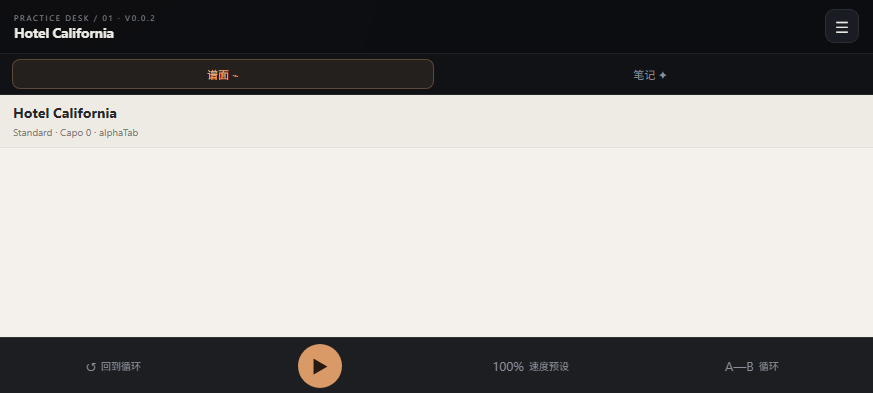
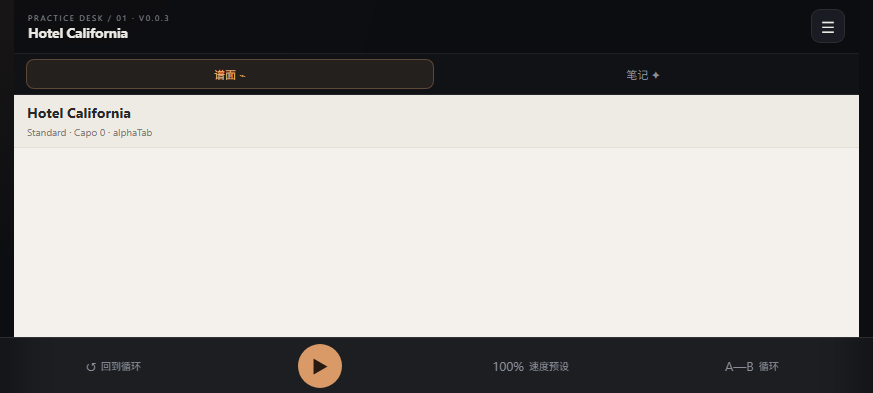
fix: tune mobile safe areas and touch targets

diff --git a/src/style.css b/src/style.css
@@ -24,7 +24,7 @@
 html, body, #app { min-height: 100%; }
 body { margin: 0; min-width: 320px; min-height: 100vh; background: var(--bg); }
 button, input, textarea { font: inherit; }
-button { cursor: pointer; }
+button { cursor: pointer; touch-action: manipulation; }
 .app-shell { min-height: 100vh; display: flex; flex-direction: column; overflow: hidden; background: radial-gradient(circle at 10% -10%, rgba(217,154,103,.08), transparent 30%), var(--bg); }
 .app-shell.is-resizing { cursor: col-resize; user-select: none; }
 .top-bar { height: 68px; display: flex; align-items: center; justify-content: space-between; padding: 0 24px; border-bottom: 1px solid var(--line); background: rgba(13,14,17,.88); backdrop-filter: blur(18px); }
@@ -59,7 +59,7 @@ button { cursor: pointer; }
 @media (max-width:1100px) and (min-width:761px) { .library-strip{gap:10px;padding-inline:16px}.library-title{min-width:150px}.search-box{width:220px}.top-bar{padding-inline:16px} }
 @media (max-width:760px) {
   body { min-width:320px; overflow:hidden; }
-  .app-shell { min-height:100dvh; padding-bottom:76px; }
+  .app-shell { min-height:100dvh; padding:0 max(14px, env(safe-area-inset-right)) 76px max(14px, env(safe-area-inset-left)); }
   .top-bar { position:relative; height:62px; padding:0 14px; }.top-title { max-width:58%; }.top-title h1 { font-size:14px; }.eyebrow { font-size:8px; letter-spacing:1.2px; }.top-actions { flex:0 0 auto; gap:5px; }.top-stat { display:none; }.top-actions .primary-button { display:none; }.icon-button { width:36px; height:36px; }.library-toggle { position:absolute; right:14px; top:13px; display:grid !important; visibility:visible !important; place-items:center; }
   .top-actions .icon-button:not(.library-toggle) { display:none; }
   .library-strip { display:none; flex-wrap:wrap; gap:10px; padding:12px 14px; }.library-strip.is-open { display:flex; }.library-title { min-width:100%; }.search-box { width:100%; }.tag-list { flex-basis:100%; order:3; }.library-strip .ghost-button { margin-left:auto; }
@@ -76,7 +76,7 @@ button { cursor: pointer; }
 
 @media (max-height:500px) and (max-width:1000px) {
   body { min-width:320px; overflow:hidden; }
-  .app-shell { min-height:100dvh; padding-bottom:62px; }
+  .app-shell { min-height:100dvh; padding:0 max(14px, env(safe-area-inset-right)) 62px max(14px, env(safe-area-inset-left)); }
   .top-bar { position:relative; height:54px; padding:0 14px; }.top-actions { flex:0 0 auto; }.library-toggle { position:absolute; right:14px; top:9px; display:grid !important; visibility:visible !important; place-items:center; }
   .top-title { max-width:58%; }.top-title h1 { font-size:14px; }.eyebrow { font-size:8px; }.top-stat, .top-actions .primary-button, .top-actions .icon-button:not(.library-toggle) { display:none; }
   .library-strip { display:none; flex-wrap:wrap; gap:10px; padding:10px 14px; }.library-strip.is-open { display:flex; }.library-title { min-width:100%; }.search-box { width:100%; }.tag-list { flex-basis:100%; order:3; }

diff --git a/src/components/TopBar.vue b/src/components/TopBar.vue
@@ -18,7 +18,7 @@ async function openVault() {
 
 <template>
   <header class="top-bar">
-    <div class="top-title"><div><div class="eyebrow">PRACTICE DESK / 01 · v0.0.2</div><h1>{{ title }}</h1></div></div>
+    <div class="top-title"><div><div class="eyebrow">PRACTICE DESK / 01 · v0.0.3</div><h1>{{ title }}</h1></div></div>
     <div class="top-actions">
       <div class="top-stat"><strong>{{ scoreStore.speed }}%</strong><span>PLAYBACK</span></div>
       <button class="icon-button library-toggle" title="打开曲库" @click="emit('toggle-library')">☰</button>

diff --git a/PRODUCT_SHOWCASE.md b/PRODUCT_SHOWCASE.md
@@ -1,6 +1,6 @@
 # Juitar 产品视觉与功能验收手册
 
-> 当前基线：`v0.0.2` · Vue 3 + TypeScript + Tauri + Rust + alphaTab
+> 当前基线：`v0.0.3` · Vue 3 + TypeScript + Tauri + Rust + alphaTab
 
 ## 1. 产品设计美学
 
@@ -68,12 +68,17 @@ Juitar 的工作台采用深色音乐工作室风格：底层使用 `#0D0E11`，
 - 曲库状态截图：`?showcase=library` 展开移动曲库抽屉。
 - 笔记状态截图：`?showcase=notes` 进入移动笔记面板。
 
+### 浏览器端到端实战记录
+
+在本地浏览器真实 DOM 上完成了以下操作：切换到 Markdown 预览 → 点击 `[m:24-28]` 胶囊 → 验证当前小节为 24、A-B 为 24–28 → 连续点击调速减号五次，将速度从 100% 调到 75% → 点击“开始练习”，按钮切换为“暂停”。该流程运行期间浏览器控制台没有错误日志。
+
 ## 5. 版本演进
 
 | 版本 | Commit | 摘要 |
 |---|---|---|
 | v0.0.1 | `d4aab2f` | 统一版本基线；建立深色设计系统；加入响应式工作台、移动 Touch Bar、曲库抽屉和截图验收资产。 |
 | v0.0.2 | 待提交 | 增加 70% / 80% / 100% 练习速度预设；锚点验收进入真实 Markdown 预览；补齐多首 MusicXML 实战夹具。 |
+| v0.0.3 | 待提交 | 补齐曲面屏安全边距、触控目标和移动端触摸行为；更新 Android 工具链准备状态。 |
 
 ## 6. 交付路径
 
@@ -83,4 +88,4 @@ Juitar 的工作台采用深色音乐工作室风格：底层使用 `#0D0E11`，
 - 视觉样式：[src/style.css](src/style.css)
 - 构建记录：[BUILD_LOG.md](BUILD_LOG.md)
 
-Android APK 产出目录预留为 `release-apk/`。当前仓库已完成 Web/Tauri 桌面闭环，Android 原生打包需要在 Rust Android 目标与 Tauri mobile 初始化完成后生成 `Juitar-v0.0.x-arm64.apk`。
+Android APK 产出目录预留为 `release-apk/`。当前仓库已完成 Web/Tauri 桌面闭环；Android 原生打包正在补齐命令行工具链，完成后将生成 `Juitar-v0.0.x-arm64.apk`。
